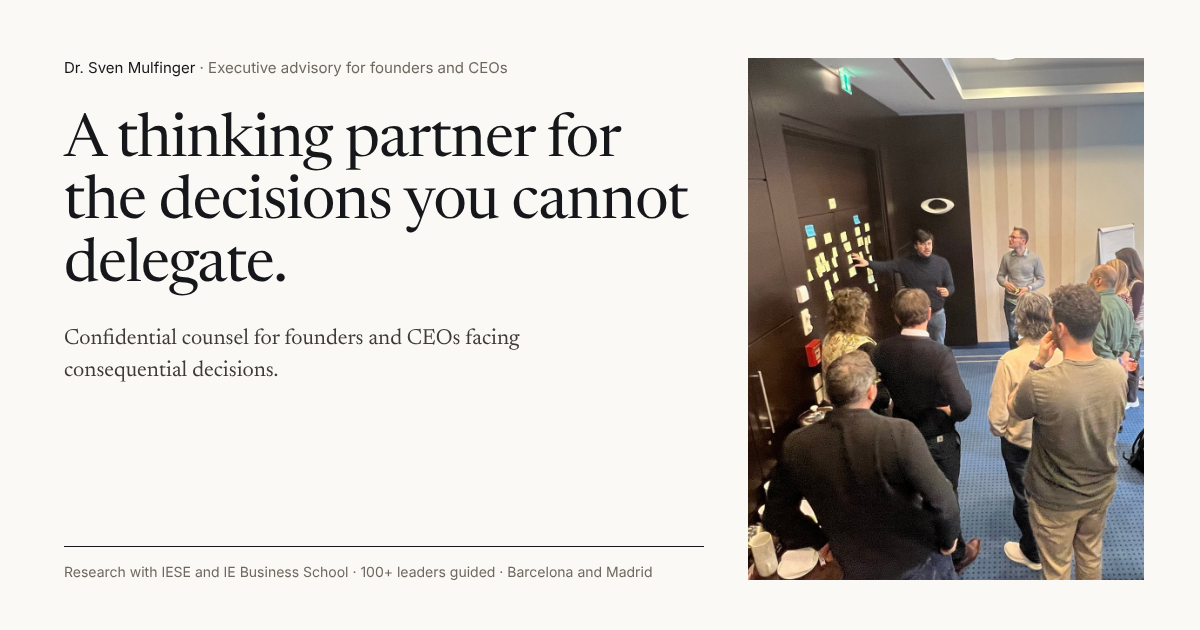
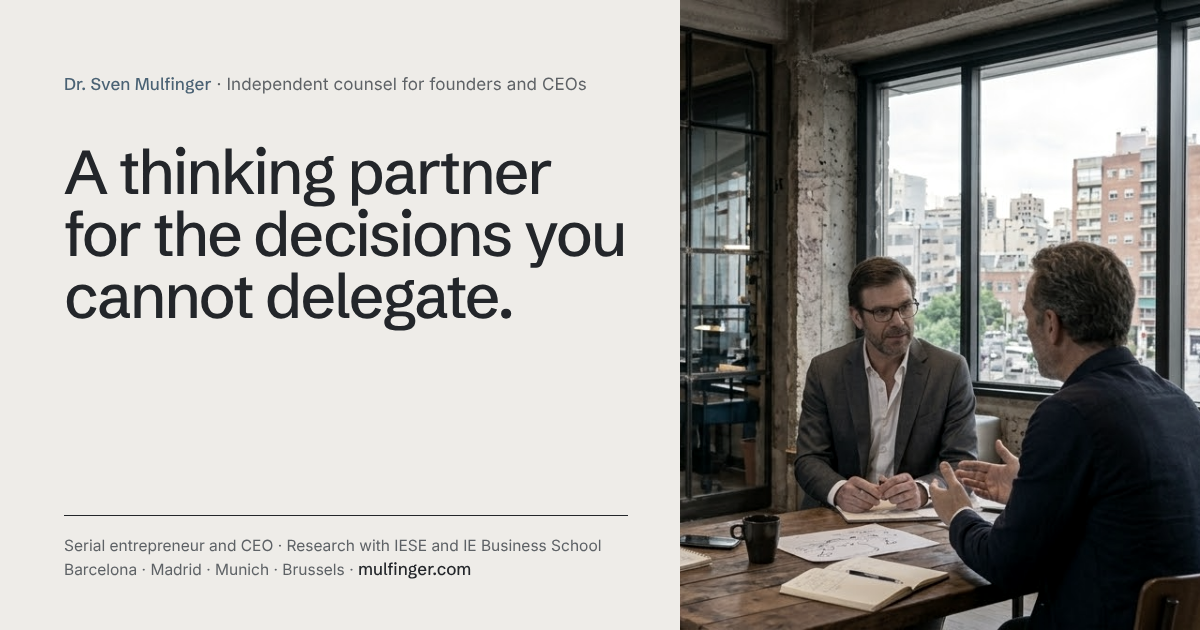
Add files via upload

diff --git a/src/data/site.ts b/src/data/site.ts
@@ -9,7 +9,7 @@ export const site = {
   url: 'https://mulfinger.com',
   locale: 'en_GB',
   ogImage: '/og.png',
-  ogImageAlt: 'Dr. Sven Mulfinger, strategic advisory for founders and CEOs',
+  ogImageAlt: 'Dr. Sven Mulfinger, independent counsel for founders and CEOs: a thinking partner for the decisions you cannot delegate',
   links: {
     kuma: 'https://kuma.partners',
     round: 'https://theround.kuma.partners',

diff --git a/README.md b/README.md
@@ -226,6 +226,7 @@ Editorial rules from the October 2026 audit, enforced by `npm run verify`:
 - 2026-11-08 (v60): The neon cover on the homepage is the Kindle edition (the paperback has a red cover), so the research section links both editions on Amazon and the alt text names the Kindle cover.
 - 2026-11-08 (v61): New page /recommendations with the 14 LinkedIn recommendations Sven approved, verbatim and generated from his copy (src/data/recommendations.ts), grouped as advisory, facilitation, operator and IESE faculty. Each has a pull quote, title, date and LinkedIn relationship, with the full text in native details. blockquote cite to the LinkedIn originals, no Review schema. Linked from the homepage quotes, the footer and llms.txt; full texts in llms-full. Em dash check exempts the one verbatim dash in Wilhelm Taht's text.
 - 2026-11-08 (v62): Redesign to direction C (graphite, stone and muted blue), chosen from the design board. Tokens: stone #EEECE8, graphite #23262A, muted blue #4A6274; Schibsted Grotesk for headings (self-hosted, @fontsource-variable/schibsted-grotesk), Newsreader kept for reading. Full-width hero photo with muted colour and the headline below on the grid (home and /advisory). Numbered sections ("02 / How I think") with a graphite rule. How I think on a sand band as a table, the obvious answer struck through. Case studies as three columns on graphite, outcome first, figures only for case 01. Situations without cards. The invitation band is muted blue (tone-accent, was tone-petrol). Checks updated to the new design.
+- 2026-11-08 (v63): New share image (public/og.png, 1200×630) in the direction C style: hero photo with muted colour, grotesk headline, the four cities and IESE and IE Business School. Replaces the old serif card with the Berlin photo and "Barcelona and Madrid". Alt text updated.
 - 2026-10-16 (v19): Favicon Direction A: Newsreader capital M (wght 650, opsz 24, outlined from the site font) in a squircle tile, inverting in dark browser chrome.
 - 2026-10-16 (v18): /advisory and /about aligned with the homepage: diagonal paper gradient heroes (not animated), serif headings, hairline grids, scroll reveal with stagger, rounded path cards on /advisory, rounded hover rows in the FAQ, warm closing panel on /about. FAQ stays at six questions.
 - 2026-10-16 (v17): The Round session photo (`src/assets/images/the-round-session.jpg`) in The Round card, 16:9 crop at 35% height, rounded-2xl, caption. Site now carries two photographs.
